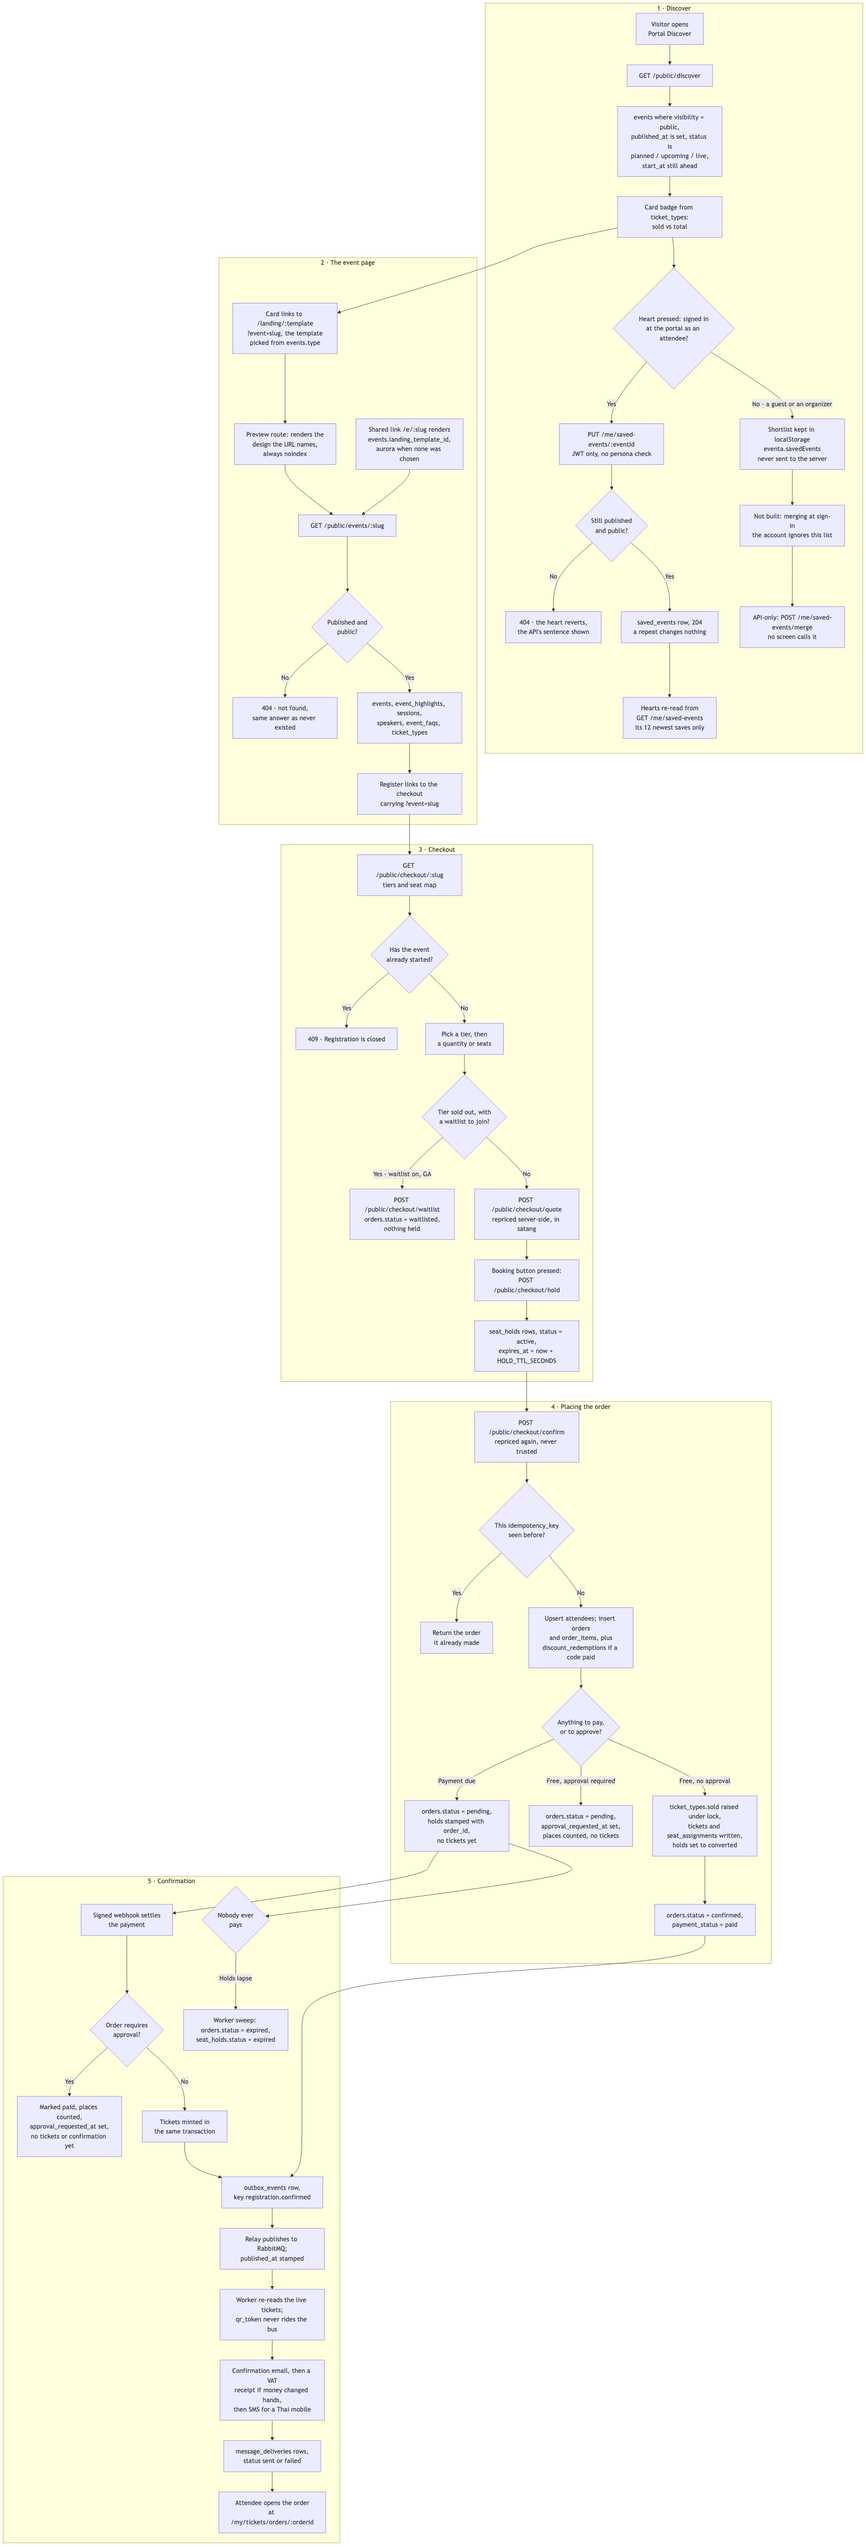
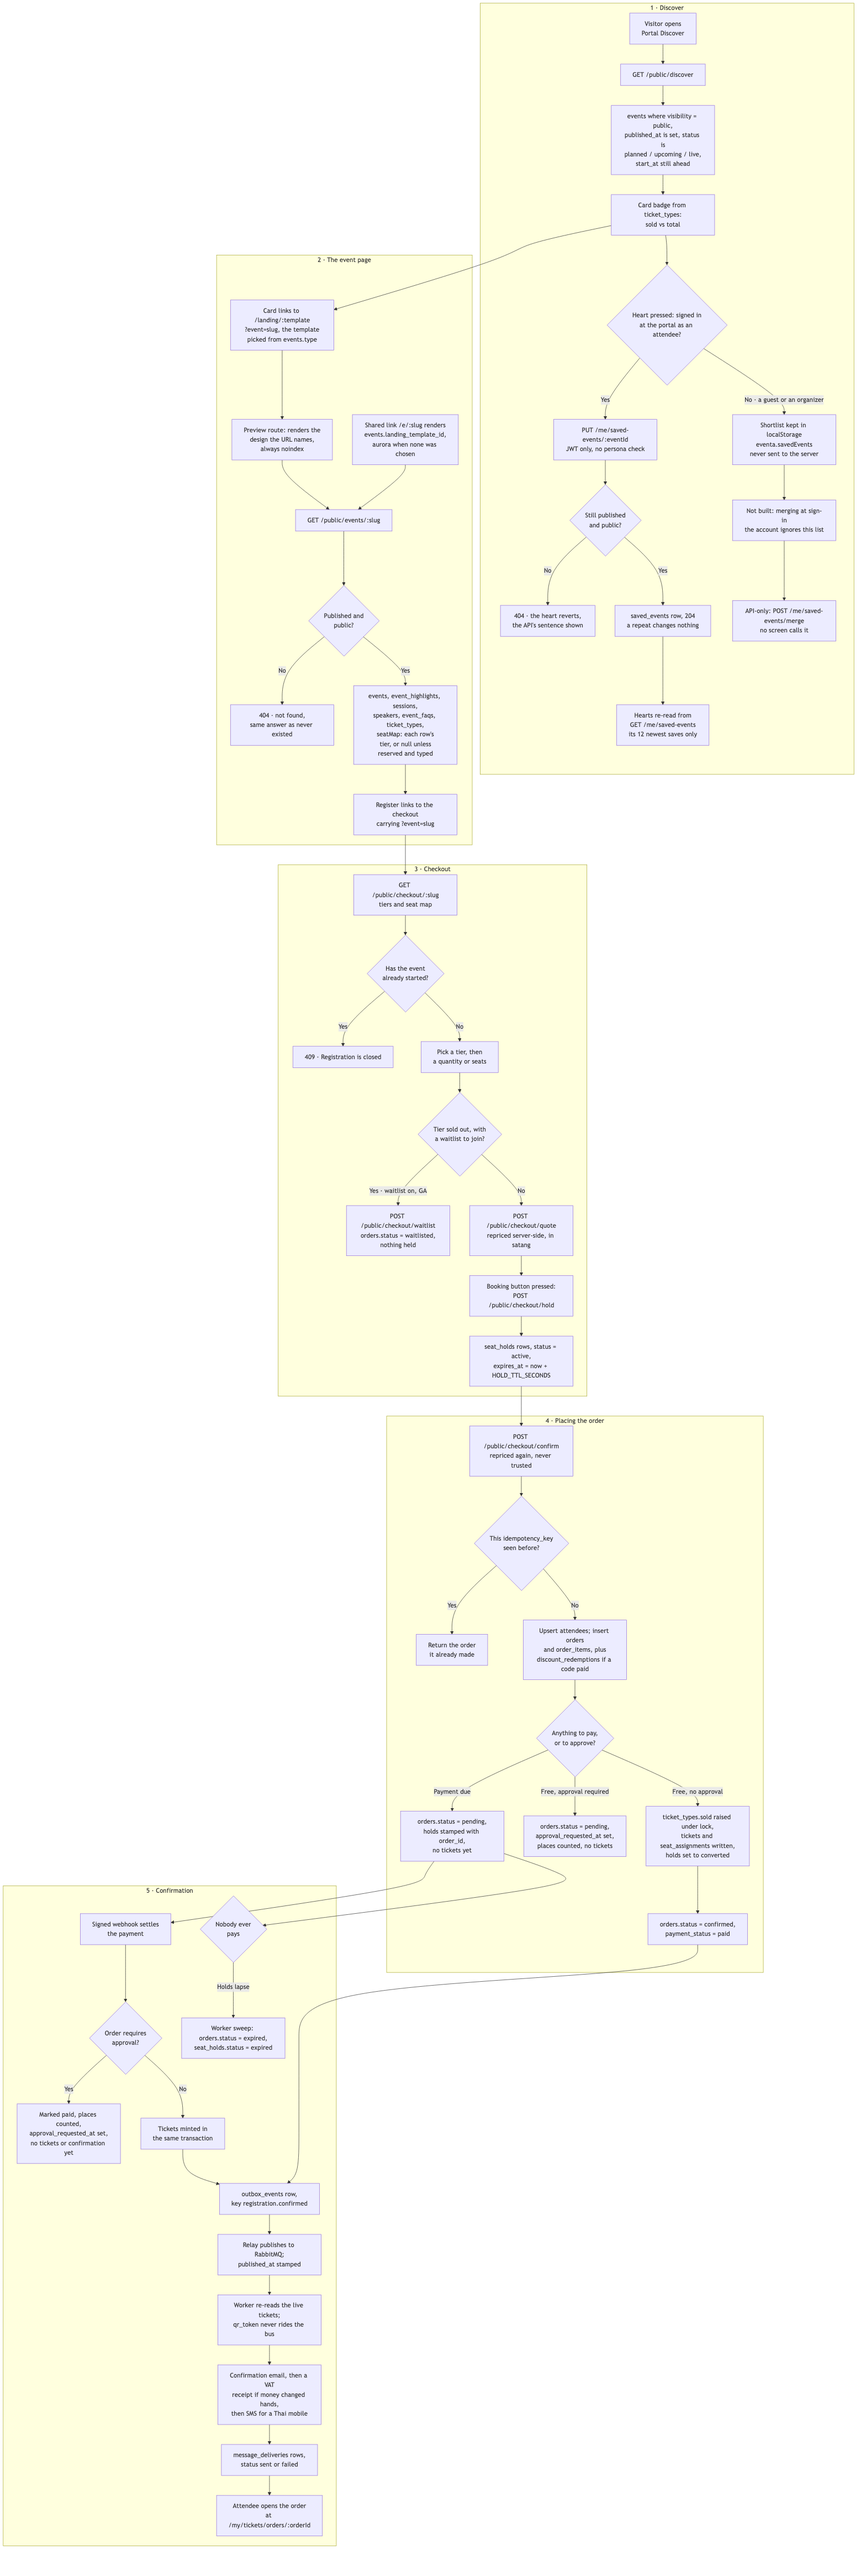
docs(flowcharts): add the public page's seatMap to discover and register (US-PAGE-05, US-EVT-05)
Step 2 now says GET /public/events/:slug carries seatMap for an
in-person reserved event whose rows have tiers: seatsPerRow and each
row's label and ticket_type_id, matching tickets[].id, read live, with
nothing about seat status, holds or sales; GA, online and a legacy
untyped map get null. The payload node says so and the image is
re-rendered (mmdc 11.17, scale 2, white).

Changed region(s): [[0.25, 0.0, 1.0, 0.7812], [0.0, 0.7188, 0.4062, 1.0]]

diff --git a/04-architecture/flowcharts/01-discover-and-register.md b/04-architecture/flowcharts/01-discover-and-register.md
@@ -7,7 +7,7 @@ The attendee's whole funnel, from browsing with no account to holding a ticket. 
 ![Discover and register](images/01-discover-and-register.png)
 
 1. **Discover.** `GET /public/discover` is anonymous and read-only. It returns `events` rows that pass every part of the public floor: `visibility = 'public'`, `deleted_at IS NULL`, `published_at IS NOT NULL`, `status` in `planned` / `upcoming` / `live`, and `start_at` still in the future — an event already under way is no longer worth discovering. Search matches the event's `name`, `city` or `venue_name` and its `categories.name`, accent- and tone-insensitively through `public.search_norm`, which strips Latin diacritics and Thai vowel and tone marks so "café" finds "cafe" and Thai text matches whether or not its marks were typed — it does not transliterate, so Thai titles still need Thai to find them. Each card's urgency badge is read across the whole event rather than one tier: **Waitlist** when every tier is exhausted (`ticket_types.sold >= total`, with `total = 0` meaning unlimited), and any tier at `status = 'paused'` keeps the event off it, because that is the organizer withholding stock rather than demand; the badge does not look at `events.waitlist_enabled`, so it says Waitlist even on an event with no line to join. **Selling fast** shows at 90% of the bounded allocation. The "from" price is the cheapest tier whose count is not used up — its `status` is not consulted, so a paused or still-`scheduled` tier can set it — formatted by the API from `price_satang`, or "Free"; when every tier is used up there is no price, and the card shows a dash rather than `฿0`. The heart saves an event for later, and *where* it is kept is decided by the persona the browser's session carries, not by asking the server. An attendee signed in at the portal gets `PUT /me/saved-events/:eventId`, which re-checks the event against the same published-and-public floor — minus the start-time cut, so a save outlives the browse — and refuses one that has gone with a 404 "This event isn't available."; otherwise it inserts a `saved_events` row keyed by `user_id` alone, with no `organization_id`, because one shortlist spans every organizer on the platform. The insert is `ON CONFLICT DO NOTHING` on `uq_saved_events_user_event`, so a double tap leaves one row and answers 204, and `DELETE /me/saved-events/:eventId` is a 204 even when nothing was saved. Both calls sit behind the global JWT guard alone — 401 without a token — and check no persona; it is the web that treats an organizer's console session as a guest here. Everybody else keeps the shortlist in `localStorage` under `eventa.savedEvents` and nothing reaches the server, because requiring an account to bookmark something would put a sign-in wall in front of the one page meant to be shareable. Each press posts the state it wants rather than "toggle", so two quick presses cannot land on the opposite; on a refusal the heart falls back to what the loader last read and the API's own sentence appears under the card. A signed-in attendee's filled hearts come from `GET /me/saved-events` called with no paging, which answers with the 12 most recently saved events less any no longer public — so an older save shows an empty heart, and pressing it changes nothing, because the idempotent insert does not move `saved_at`. **No screen lists saved events**; that call only colours the hearts. **Merging a guest's saves into the account at sign-in is not built.** `POST /me/saved-events/merge` exists — at most 100 event uuids, ids no longer public dropped rather than rejected, duplicates absorbed by the same unique pair, and the count of genuinely new rows returned as `merged` — but nothing in the web calls it: not portal sign-in, not sign-up, not the "Keep these tickets" offer on the guest order page, although comments in the web say they do. Once a guest signs in, Discover reads the account's list and ignores the browser's, which is neither sent nor cleared and comes back if they sign out. Nothing downstream reads `saved_events` either, so no reminder is ever sent for a saved event.
-2. **The event page.** A Discover card does **not** open the event as its organizer designed it. Its link is `/landing/<template>?event=<slug>`, and the web picks the template from the event's `type` through a fixed table — Conference, Networking and Seminar open `aurora`, Workshop and Charity & Gala `minimal`, Sports & Wellness and Concert & Festival `atlas`, Exhibition `noir` — never from `events.landing_template_id`. `/landing/:template` is the template-preview route the landing-page switcher and the create-event wizard also open: it renders whichever design the URL names and always marks the page noindex. The canonical address is `/e/<slug>`, the one the API writes into the page's own share link and every share message, and it renders `events.landing_template_id`, or `aurora` when none was chosen. The two often disagree: a Conference whose organizer chose `minimal` opens from Discover as `aurora`, and a Sports & Wellness event with no choice opens there as `atlas` but as `aurora` at its own address. Either way it is one anonymous call, `GET /public/events/:slug`, which resolves the event only when it is published and public — a draft, unlisted or private event is simply "not found", indistinguishable from one that never existed, so the lookup *is* the authorization check. The payload is assembled from `events` plus `event_highlights`, `sessions`, `speakers`, `event_faqs` and `ticket_types`, with the section headings the organizer chose (`events.agenda_title`, `events.speakers_title`). `GET /public/events/:slug/calendar.ics` serves the same event as a calendar file. The **Register** call to action is a link to the checkout, `/portal/checkout?event=<slug>`.
+2. **The event page.** A Discover card does **not** open the event as its organizer designed it. Its link is `/landing/<template>?event=<slug>`, and the web picks the template from the event's `type` through a fixed table — Conference, Networking and Seminar open `aurora`, Workshop and Charity & Gala `minimal`, Sports & Wellness and Concert & Festival `atlas`, Exhibition `noir` — never from `events.landing_template_id`. `/landing/:template` is the template-preview route the landing-page switcher and the create-event wizard also open: it renders whichever design the URL names and always marks the page noindex. The canonical address is `/e/<slug>`, the one the API writes into the page's own share link and every share message, and it renders `events.landing_template_id`, or `aurora` when none was chosen. The two often disagree: a Conference whose organizer chose `minimal` opens from Discover as `aurora`, and a Sports & Wellness event with no choice opens there as `atlas` but as `aurora` at its own address. Either way it is one anonymous call, `GET /public/events/:slug`, which resolves the event only when it is published and public — a draft, unlisted or private event is simply "not found", indistinguishable from one that never existed, so the lookup *is* the authorization check. The payload is assembled from `events` plus `event_highlights`, `sessions`, `speakers`, `event_faqs` and `ticket_types`, with the section headings the organizer chose (`events.agenda_title`, `events.speakers_title`). An in-person event with `seating_mode = 'reserved'` whose seat map gives at least one seat a tier also gets a `seatMap`: `seatsPerRow` and one entry per row of `seats` in row order — its `row_label` and the `ticket_type_id` the whole row shares, null for a row with none — the ids being the page's own `tickets[].id`. Every template draws it under the ticket cards as a stage, the rows coloured by tier and a legend such as "VIP · Rows 1–2 · 32 seats", and each ticket card says which rows it sells ("Rows 1–2"), so an attendee can tell VIP from Normal before choosing (US-PAGE-05). It is the split, not the availability: no seat's `status`, hold or sale leaves the API, and which seats are free is still only seen at checkout. General admission, an online event, and a reserved map laid out before rows carried tiers get `seatMap: null` and no seat map. Like the rest of the payload it is read live, so a row given to another tier in Seating shows on the next load. `GET /public/events/:slug/calendar.ics` serves the same event as a calendar file. The **Register** call to action is a link to the checkout, `/portal/checkout?event=<slug>`.
 3. **Checkout.** `GET /public/checkout/:slug` resolves the event the same way and returns its tiers and, for a `seating_mode = 'reserved'` event, its seat map with taken seats greyed out; registration is refused with a 409 "Registration is closed for this event." once `events.start_at` has passed. Every change of tier, quantity, seat or discount code re-posts to `/public/checkout/quote`, which writes nothing — the subtotal is `ticket_types.price_satang` times the quantity, the discount is what Discounts quotes for the code, the service fee is charged on the discounted amount and rounded down, and VAT is restated out of the resulting total. All of it is integer satang worked out by the API; the browser only formats. Pressing the booking button — "Confirm registration", or "Pay" / "Continue to pay" with the total — first calls `POST /public/checkout/hold`, which inserts `seat_holds` with `status = 'active'` and `expires_at = now + HOLD_TTL_SECONDS` (ten minutes by default): one row carrying `quantity` for general admission, where availability is `total − sold − active held` under a `FOR UPDATE` lock on the tier, and one row per `seat_id` for reserved seating, where the seat rows are locked `FOR UPDATE` and re-checked before the insert, with the partial unique index `uq_seat_hold_active` (one `active` hold per seat) as the backstop. A booking is 1–8 seats. A tier whose live status is sold out offers the line instead when `events.waitlist_enabled` is on and the event is general admission: no quote and no hold, but `POST /public/checkout/waitlist`, an order with `status = 'waitlisted'` that holds nothing (see [Waitlist](04-waitlist.md)).
 4. **Placing the order.** In the same press the web calls `POST /public/checkout/confirm`, and gives the hold straight back with `DELETE /public/checkout/hold` if that call fails. Confirm re-prices the selection server-side rather than trusting the request, then writes everything in one transaction. An `orders` row already carrying this `idempotency_key` short-circuits the whole thing — that lookup, backed by the unique `uq_orders_org_idem` on (`organization_id`, `idempotency_key`), is why a double-tapped Confirm returns the first registration instead of placing a second — otherwise the holds are re-read as still `active` and unexpired (a 409 "Your seats were released while you were checking out. Please choose again." if not), `attendees` is upserted so a repeat buyer updates rather than duplicates, and `orders` is written with a random reference like `ORD-7K2M9QX4`, its satang columns, and `requires_approval` copied from the event as a snapshot so flipping the event's switch later cannot change the deal this buyer made. One `order_items` line follows, plus a `discount_redemptions` row when a code paid off. A free registration on an event needing no decision finishes here: `ticket_types.sold` raised under a `FOR UPDATE` lock, one `tickets` row per admission with its `qr_token`, `seat_assignments` bound to those tickets, holds moved to `'converted'`, the order at `status = 'confirmed'` / `payment_status = 'paid'`, and the `registration.confirmed` row written to `outbox_events` inside the same transaction (see [Free registration and confirmation](03-free-registration-and-confirmation.md)). Anything owed is placed as `status = 'pending'` / `payment_status = 'pending'` with its holds stamped with `order_id` and still running down, and deliberately **no `tickets` rows** — nobody holds a QR for something they have not paid for; the same press then starts the payment with `POST /public/payments`. On an event that requires approval, nothing is ticketed here either: a free registration waits with `approval_requested_at` set and its places already counted, and a paid one starts waiting when the money lands (see [Approval](05-approval.md)).
 5. **Confirmation.** Money is only ever confirmed by a signature-verified provider webhook, `POST /public/payments/webhook/:token`, which settles the payment and mints the tickets in the same transaction that writes the `registration.confirmed` row to `outbox_events` — so "paid", "ticketed" and "told" cannot drift apart (see [Checkout and payment](02-checkout-and-payment.md)). A free order's row was already written by the confirm transaction in step 4. On an order whose `requires_approval` is set, the webhook mints nothing and queues nothing: it marks the order paid, counts its places and sets `approval_requested_at`, and the tickets and the confirmation wait for the organizer's decision (see [Approval](05-approval.md)). The relay publishes the `registration.confirmed` row to RabbitMQ and stamps `published_at`; eventa-worker's `RegistrationConfirmedHandler` consumes it, re-reads the live `tickets` from the database rather than the message — a `qr_token` is a bearer credential and never travels on the bus — and sends the confirmation email unless the workspace has switched it off (`message_templates.active` for `registration-confirmation`), then the itemised VAT receipt when money actually changed hands and both receipt switches are on, then an SMS if the buyer gave a Thai mobile, an SMS transport is configured and the confirmation's channels include `sms`. Each part is recorded as it is sent, so a redelivery sends only what is still owed, and every send lands a `message_deliveries` row with `status` `sent` or `failed`. The email links to `/my/tickets/orders/:orderId`, which anyone holding the uuid may open: registration never required an account, so reading what you bought must not either. If the buyer never pays, the worker's `order-expiry` cron, sweeping every minute, closes orders still `pending` / `pending` and not awaiting a decision whose last hold lapsed more than `ORDER_EXPIRY_GRACE_MS` ago (two minutes by default) — `orders.status = 'expired'`, `seat_holds.status = 'expired'` — which is how an abandoned checkout gives its seats back. All of these timestamps are UTC in the database and render in Asia/Bangkok on screen.
@@ -39,7 +39,7 @@ flowchart TD
     H2 --> I
     I --> J{"Published and<br/>public?"}
     J -- "No" --> K["404 · not found,<br/>same answer as never existed"]
-    J -- "Yes" --> L["events, event_highlights, sessions,<br/>speakers, event_faqs, ticket_types"]
+    J -- "Yes" --> L["events, event_highlights, sessions,<br/>speakers, event_faqs, ticket_types,<br/>seatMap: each row's<br/>tier, or null unless<br/>reserved and typed"]
     L --> M["Register links to the checkout<br/>carrying ?event=slug"]
   end
 
